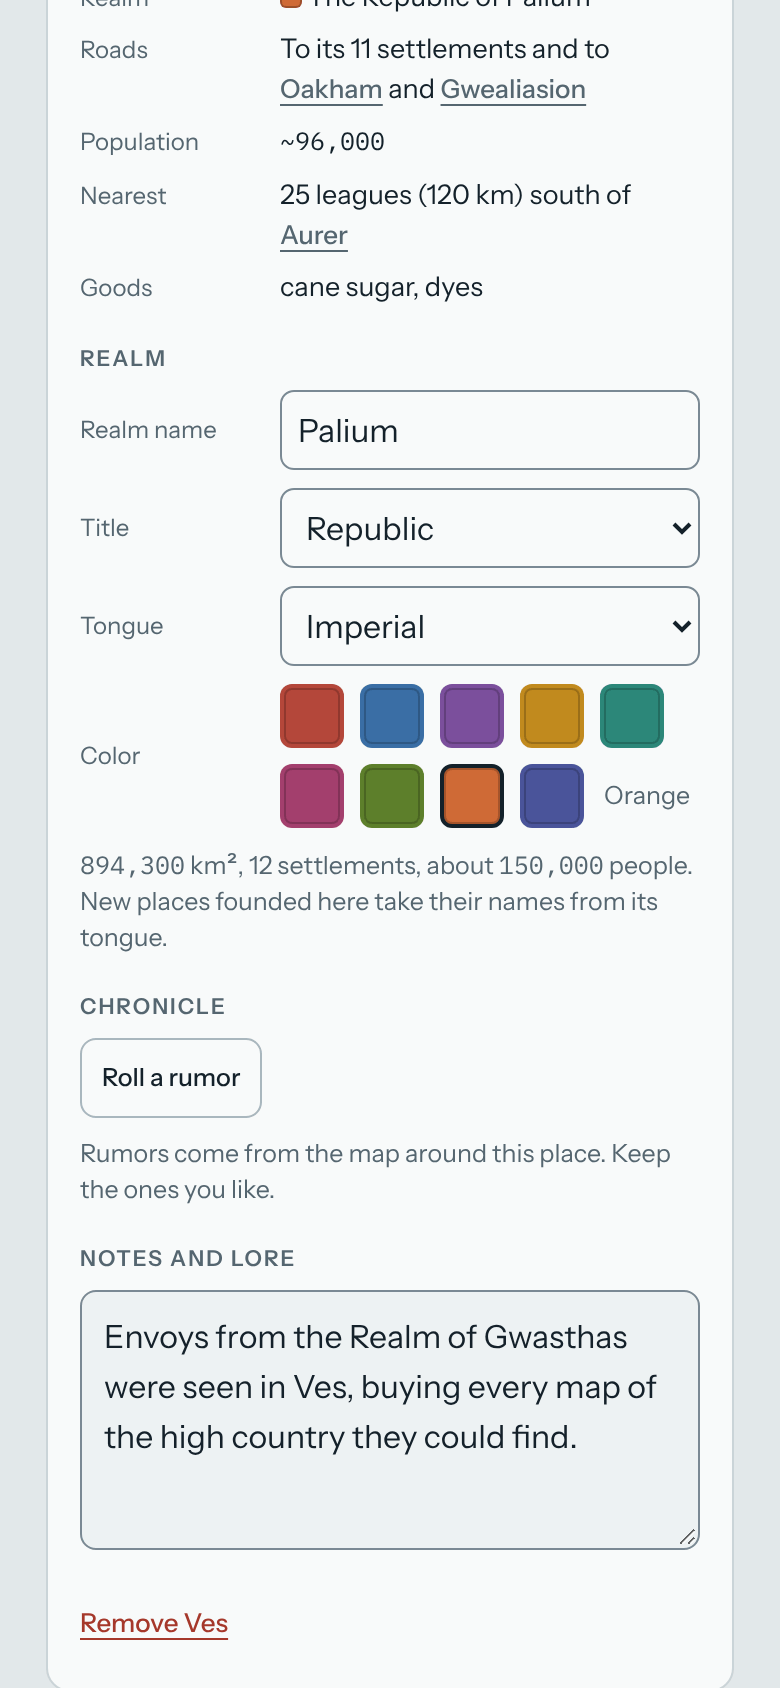
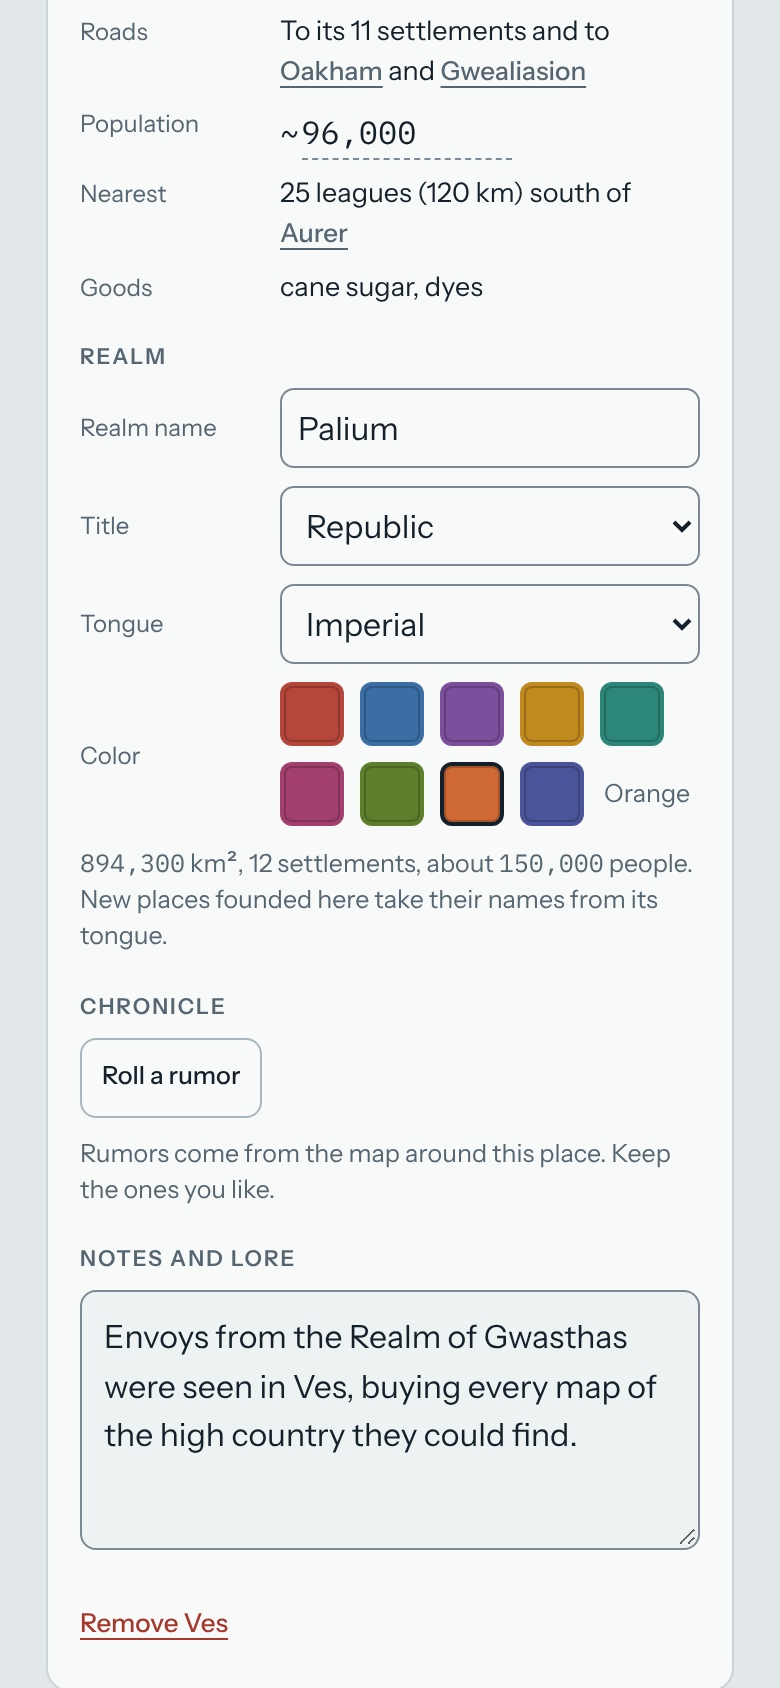
Let a settlement's population be typed in
A place's population was always the number rolled from its land, so a builder whose notes said a town of 12,000 had a
page that disagreed. The Population row on a settlement's page is now a box to type a number in. A number typed in is
the place's own: a change of kind keeps it, its realm's total counts it, the history Claude drafts gives it as it is
rather than as a guess, and the world file keeps it. A rolled number still shows with its ~. An emptied box goes back
to what it held. The README's pictures of a place's page are redrawn. This answers Mark's question on setting a
place's population yourself.

Claude-Session: https://claude.ai/code/session_01PQbLNV8yuVmPjyBMzr2F36

diff --git a/js/app.js b/js/app.js
@@ -672,7 +672,12 @@ function territories() {
     }
     r.lx = cx; r.ly = cy;
   }
-  for (const p of world.places) { if (p.kind === 'landmark') continue; const o = own[cellAt(p.x, p.y)]; if (o >= 0) { D.realms[o].pop += p.pop || 0; D.realms[o].count++; } }
+  realmPops();
+}
+// Each realm's people and settlements, from its places' own numbers (a population typed on a place's page among them).
+function realmPops() {
+  for (const r of D.realms) { r.pop = 0; r.count = 0; }
+  for (const p of world.places) { if (p.kind === 'landmark') continue; const o = D.owner[cellAt(p.x, p.y)]; if (o >= 0 && D.realms[o]) { D.realms[o].pop += p.pop || 0; D.realms[o].count++; } }
 }
 // What crossing each cell costs a realm spreading over it: nothing, or on a big river (more than 6 times the water a
 // river needs to show) from 20 up to 40 for the greatest.
@@ -1310,6 +1315,8 @@ function applyWorld({ o, h, m }) {
   for (const q of items) { if (!Number.isInteger(q.id) || ids.has(q.id)) q.id = world.nextId++; ids.add(q.id); }
   for (const p of world.places) {
     if (!KINDS[p.kind]) p.kind = 'village'; if (!TONGUES[p.tongue]) p.tongue = 'vale'; p.name = String(p.name || 'Nameless'); p.lore = String(p.lore || ''); p.pop = Math.max(0, +p.pop || 0);
+    // A population typed on its page; a settlement goes by it.
+    const own = Math.round(+p.ownPop); if (own >= 1 && own <= POP_MAX) { p.ownPop = own; if (p.kind !== 'landmark') p.pop = own; } else delete p.ownPop;
     if (p.kind === 'landmark' && !LANDMARKS[p.sub]) p.sub = 'ruin';
     // A capital always rules a realm; fill in whatever the file left out.
     if (p.kind === 'capital') {
@@ -3350,7 +3357,8 @@ function factsHTML(f, p) {
   if (rd && rd.from) rows.push(['Road', `On the road from ${goto(rd.from)} to ${goto(rd.to)}`]);
   else if (rd && rd.to) { const n = Math.max(1, Math.round(rd.km / LEAGUE)); rows.push(['Road', `On the road to ${goto(rd.to)}, ${n} league${n === 1 ? '' : 's'} (${fmtInt(roundSig(rd.km, 2))} km)`]); }
   else if (rd) rows.push(['Roads', (rd.towns ? `To its ${rd.towns} settlement${rd.towns === 1 ? '' : 's'}` : 'To') + (rd.caps.length ? `${rd.towns ? ' and to ' : ' '}${andList(rd.caps.map(goto))}` : '')]);
-  if (p && p.pop) rows.push(['Population', `<span class="mono">~${fmtInt(p.pop)}</span>`]);
+  // A settlement's number of people can be typed in. One rolled from the land is a guess, so it shows with a ~.
+  if (p && p.kind !== 'landmark') rows.push(['<label for="pPop">Population</label>', `<span class="pop-field"><span class="mono" id="pPopAbout" aria-hidden="true"${p.ownPop ? ' hidden' : ''}>~</span><input id="pPop" class="mono" type="text" inputmode="numeric" autocomplete="off" spellcheck="false" maxlength="12" value="${fmtInt(p.pop)}"></span>`]);
   // In leagues, as the scale bar has it, with km beside them, as the rest of the page measures.
   if (f.near) rows.push(['Nearest', `${f.near.leagues} league${f.near.leagues === 1 ? '' : 's'} (${fmtInt(f.near.km)} km) ${f.near.dir} of ${placeIn(f.near.p) !== f.near.p.name ? 'the ' : ''}<button class="link" data-goto="${f.near.p.id}">${esc(f.near.p.name.replace(/^The /, ''))}</button>`]);
   if (f.goods.length) rows.push(['Goods', esc(f.goods.join(', '))]);
@@ -3423,7 +3431,7 @@ function buildPrompt(p) {
   const c = storyCtx(p), f = c.f;
   const L = [];
   L.push(`World: ${world.name}`);
-  L.push(`Place: ${p.name}, a ${kindLabel(p).toLowerCase()}${p.pop ? ` of about ${fmtInt(p.pop)} people` : ''}.`);
+  L.push(`Place: ${p.name}, a ${kindLabel(p).toLowerCase()}${p.pop ? ` of ${p.ownPop ? '' : 'about '}${fmtInt(p.pop)} people` : ''}.`);
   // A landmark has no people of its own to speak a tongue; a town is told where its capital is.
   const cap = f.realm && f.realm.place !== p && p.kind !== 'landmark' ? f.realm.place : null;
   L.push(f.realm ? `Realm: ${f.realm.display}${p.kind === 'capital' ? ' (this is its capital)' : ''}.${p.kind === 'landmark' ? '' : ` Its people speak the ${TONGUES[f.realm.tongue].label} tongue.`}${cap ? ` Its capital is ${cap.name}, ${leagues(Math.hypot(cap.x - p.x, cap.y - p.y))} ${compass(cap.x - p.x, cap.y - p.y)}.` : ''}` : 'Realm: none. It lies in unclaimed land.');
@@ -3587,7 +3595,7 @@ function placeHTML(p) {
       <div class="field"><label for="rTitle">Title</label><select id="rTitle">${ALL_TITLES.map(t => `<option ${t === p.realm.title ? 'selected' : ''}>${esc(t)}</option>`).join('')}</select></div>
       <div class="field"><label for="rTongue">Tongue</label><select id="rTongue">${TONGUE_IDS.map(t => `<option value="${t}" ${t === p.tongue ? 'selected' : ''}>${TONGUES[t].label}</option>`).join('')}</select></div>
       <div class="field"><span class="h3" style="text-transform:none;letter-spacing:0;font-weight:400;font-size:12px">Color</span><div class="swatches" role="group" aria-label="Realm color">${REALM_COLORS.map((c, k) => `<button data-color="${c}" style="background:${c}" aria-label="${REALM_COLOR_NAMES[k]}" title="${REALM_COLOR_NAMES[k]}" aria-pressed="${c === p.realm.color}"></button>`).join('')}<span class="swatch-name" aria-hidden="true">${REALM_COLOR_NAMES[REALM_COLORS.indexOf(p.realm.color)] || ''}</span></div></div>
-      <p class="note">${f.realm ? `<span class="mono">${fmtInt(f.realm.area * KM * KM)}</span> km², ${f.realm.count} settlement${f.realm.count === 1 ? '' : 's'}, about <span class="mono">${fmtInt(roundSig(f.realm.pop, 2))}</span> people.` : ''} New places founded here take their names from its tongue.</p>
+      <p class="note">${f.realm ? `<span class="mono">${fmtInt(f.realm.area * KM * KM)}</span> km², ${f.realm.count} settlement${f.realm.count === 1 ? '' : 's'}, about <span class="mono" id="rPop">${fmtInt(roundSig(f.realm.pop, 2))}</span> people.` : ''} New places founded here take their names from its tongue.</p>
     </div>`;
   }
   const busy = draftFor(p.id).busy;
@@ -3679,6 +3687,21 @@ function bindPlace(p) {
   nm.addEventListener('change', () => { if (!p.name.trim()) { p.name = 'Nameless'; nm.value = p.name; named(); } refreshCodex(); requestDraw(); });
   $('#pReroll').onclick = () => { pushUndo({ meta: true }, `Rename ${p.name}`); p.name = freshName(() => p.kind === 'landmark' ? landmarkName(p.sub, p.tongue, Math.random) : makeName(p.tongue, Math.random)); nm.value = p.name; named(); requestDraw(); refreshCodex(); markDirty(); };
   $('#pKind').onchange = e => { changeKind(p, e.target.value); refocus('#pKind'); };
+  // A population typed in stays the place's own: a change of kind keeps it, and its realm's total counts it.
+  const pop = $('#pPop'), showRealmPop = () => { const rp = $('#rPop'), r = D.realms.find(r => r.place === p); if (rp && r) rp.textContent = fmtInt(roundSig(r.pop, 2)); };
+  if (pop) {
+    pop.addEventListener('input', () => {
+      const n = typedPop(pop.value); if (n === null || n === p.pop) return;
+      once(`Population of ${p.name}`); p.pop = p.ownPop = n; realmPops(); touched(); markDirty(); showRealmPop();
+    });
+    // A box left empty, or with no number in it, goes back to what it held when it was entered, rather than the
+    // last number on the way to emptying it.
+    let atFocus = null; pop.addEventListener('focus', () => { atFocus = { pop: p.pop, own: p.ownPop }; });
+    pop.addEventListener('change', () => {
+      if (typedPop(pop.value) === null && atFocus) { p.pop = atFocus.pop; if (atFocus.own) p.ownPop = atFocus.own; else delete p.ownPop; realmPops(); markDirty(); showRealmPop(); }
+      pop.value = fmtInt(p.pop); $('#pPopAbout').hidden = !!p.ownPop; refreshCodex();
+    });
+  }
   $('#pLore').addEventListener('input', e => { once(`Notes on ${p.name}`); p.lore = e.target.value; touched(); markDirty(); });
   $('#pDelete').onclick = () => removeSel({ type: 'place', id: p.id });
   $('#pRumor').onclick = () => { if (draftFor(p.id).busy) return; setDraft(p.id, { text: rumor(p), busy: false, kind: 'rumor', note: '', ctl: null }); renderDraft(); };
@@ -3702,6 +3725,9 @@ function bindPlace(p) {
 // the place itself among them, unless it became a landmark); the place keeps the realm's name,
 // title and colour, so making it a capital again brings the same realm back. The population is rolled again only
 // when it doesn't fit the new kind, from numbers of the place's own, so switching back and forth comes back to it.
+// A number of people as typed: digits, with commas, spaces or dots between thousands; null for anything else, or none.
+const POP_MAX = 99999999;
+function typedPop(text) { const t = String(text).replace(/[\s,.'’_~]/g, ''); if (!/^\d{1,8}$/.test(t)) return null; const n = +t; return n >= 1 && n <= POP_MAX ? n : null; }
 function changeKind(p, val) {
   pushUndo({ meta: true }, `Change what ${p.name} is`);
   const [kind, sub] = val.split(':'), i = cellAt(p.x, p.y);
@@ -3713,7 +3739,8 @@ function changeKind(p, val) {
   else {
     p.kind = kind; delete p.sub;
     const r = POP[kind], f = fertility(i);
-    if (!(p.pop >= r[0] * f * 0.95 && p.pop <= r[1] * f * 1.05)) p.pop = rollPop(kind, i, mulberry32(hash3(world.seed, p.id, 41 + Object.keys(POP).indexOf(kind))));
+    if (p.ownPop) p.pop = p.ownPop;
+    else if (!(p.pop >= r[0] * f * 0.95 && p.pop <= r[1] * f * 1.05)) p.pop = rollPop(kind, i, mulberry32(hash3(world.seed, p.id, 41 + Object.keys(POP).indexOf(kind))));
   }
   recomputePolitics(); renderInspector(); refreshCodex(); requestDraw(); markDirty();
   if (ended) toast(`${display} ${plural ? 'are' : 'is'} no longer a realm. ${whereTheyWent(held)}`, { label: 'Undo', fn: undo }, 10000);

diff --git a/css/app.css b/css/app.css
@@ -138,6 +138,9 @@ button{touch-action:manipulation} /* a quick second tap on Undo doesn't zoom the
 .facts{display:grid;grid-template-columns:88px minmax(0,1fr);gap:7px 12px;margin:0;font-size:13.5px}
 .facts dt{color:var(--muted);font-size:12px;padding-top:1px}
 .facts dd{margin:0}
+.pop-field{display:inline-flex;align-items:baseline;gap:1px}
+.pop-field input{width:11ch;border:0;border-bottom:1px dashed var(--field-line);background:transparent;padding:0 0 1px;border-radius:0;min-width:0}
+.pop-field input:focus{outline:none;border-bottom:1px solid var(--accent)}
 .mono{font-family:var(--f-mono);font-size:12.5px}
 .section{display:flex;flex-direction:column;gap:9px}
 .section h3,.h3{margin:0;font:600 11px var(--f-ui);letter-spacing:.09em;text-transform:uppercase;color:var(--muted)}
@@ -264,6 +267,8 @@ kbd{font:11px var(--f-mono);border:1px solid var(--line-strong);border-bottom-wi
 @media (pointer: coarse){
   .txt,.search,.grid2 input,select,.field input[type=text],.field input[type=number],textarea{font-size:16px}
   .txt,select,.field input[type=text],.field input[type=number],.grid2 input{height:40px}
+  .pop-field input,.pop-field .mono{font-size:16px}
+  .pop-field input{height:28px;padding:0}
   .search{height:44px}
   .tool,.zoom button,.icon-btn{width:44px;height:44px}
   .btn,.seg{height:44px}

diff --git a/sw.js b/sw.js
@@ -9,7 +9,7 @@
 // fingerprint of every file in SHELL: change any of them and test/e2e.mjs fails until FILES is changed to match (it
 // says what to), which changes this file, so every copy is made whole again at once.
 const CACHE = 'terra-incognita-v3'; // bump the number when the file list changes
-const FILES = '09481e6a'; // test/e2e.mjs checks this
+const FILES = '3c3448d4'; // test/e2e.mjs checks this
 const SHELL = [
   './', 'index.html', 'css/app.css', 'js/app.js', 'js/edge-guard.js', 'manifest.webmanifest', 'icon.svg',
   'icon-180.png', 'icon-192.png', 'icon-512.png', 'icon-512-maskable.png',

diff --git a/README.md b/README.md
@@ -42,11 +42,13 @@ and sea stop them. Every town has a page for its story.
   easiest ground: beside rivers where they can, round mountains where they can't, never over water. They follow the
   towns, so a town you found or move gets its road, and the Roads layer in the World tab turns them off, with the
   roads you draw.
-- **Places.** Tap any town or patch of ground to see its elevation, climate, nearest neighbour and local
-  goods, with distances in leagues of 4.8 km, its river: which way it flows, how far on it reaches the sea and how
-  much land it drains, and the road it is on. Keep notes for your lore, or roll a rumor built from the map around it. From the keyboard, Tab
-  to the map, pan it with the arrow keys and press Enter to read the spot in the middle. The Codex lists every place
-  and every sea, region and range named on the map, and finds words in your notes.
+- **Places.** Tap any town or patch of ground to see its elevation, climate, nearest neighbour and local goods, with
+  distances in leagues of 4.8 km, its river: which way it flows, how far on it reaches the sea and how much land it
+  drains, and the road it is on. A settlement's population is a guess from its land until you type in your own, which
+  stays through a change of kind and counts in its realm's total. Keep notes for your lore, or roll a rumor built from
+  the map around it. From the keyboard, Tab to the map, pan it with the arrow keys and press Enter to read the spot in
+  the middle. The Codex lists every place and every sea, region and range named on the map, and finds words in your
+  notes.
 - **Keyboard.** Every tool has a letter (V, P, R…), [ and ] size the brush, F shows the whole map, and Ctrl S saves
   the world file; the World tab lists them.
 - **Two looks.** Terrain is shaded relief; Atlas is parchment with drawn mountains and trees. A world file opens in
